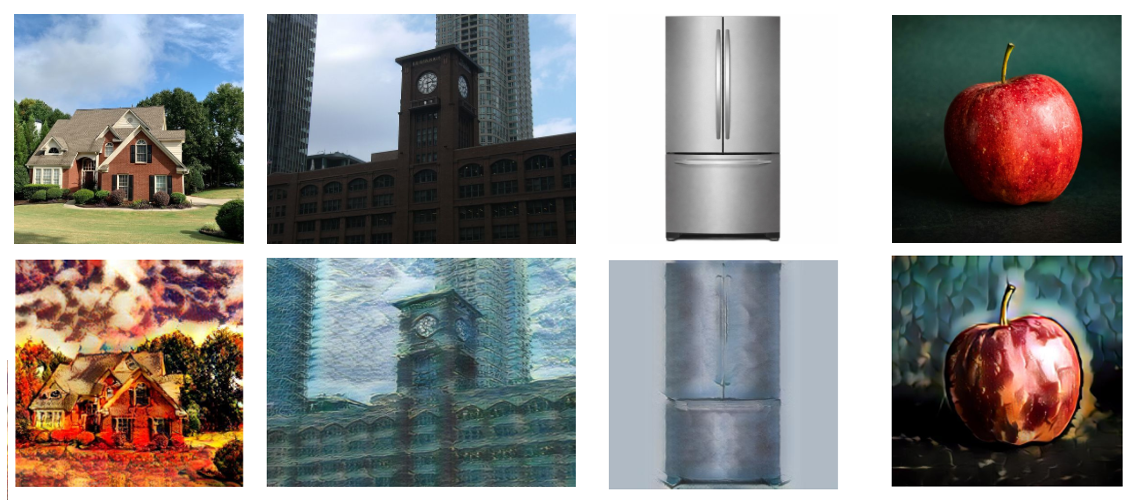
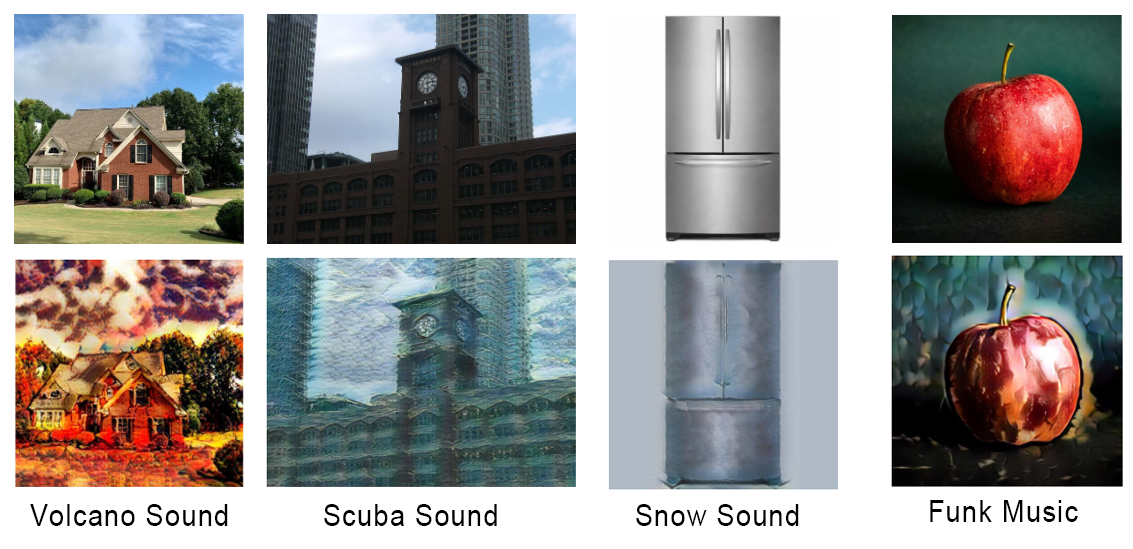
Fixed the Readme

diff --git a/README.md b/README.md
@@ -8,21 +8,6 @@ The top row shows the original images and the bottom row shows the corresponding
 
 ![Example results](examples/ExampleResultsCropped.png)
 
-<table>
-  <tr>
-    <th>volcano.wav</th>
-    <th>scuba.wav</th>
-    <th>snow.mp3</th>
-    <th>BillyJean.wav</th>
-  </tr>
-  <tr>
-    <td><audio controls src="examples/volcano.wav">volcano.wav</audio></td>
-    <td><audio controls src="examples/scuba.wav">scuba.wav</audio></td>
-    <td><audio controls src="examples/snow.mp3">snow.mp3</audio></td>
-    <td><audio controls src="examples/BillyJean.wav">BillyJean.wav</audio></td>
-  </tr>
-</table>
-
 ## Pipeline
 
 ![Audio-driven image stylization pipeline](examples/Pipeline.png)
@@ -35,3 +20,19 @@ An input image is encoded with the VGG. In parallel, ImageBind extracts an embed
 - **Audio:** A split of the [FSD50K dataset](https://zenodo.org/records/4060432) was used to obtain 10,000 audio clips.
 
 The images and audio clips are paired to train the audio-to-style mapping network.
+
+## Setup
+
+Clone the repository together with its submodules, create a Python environment, and install the ImageBind dependencies:
+
+```bash
+git clone --recurse-submodules <repository-url>
+cd Audio-driven-Image-Stylization
+python -m venv .venv
+source .venv/bin/activate          # Windows: .venv\Scripts\activate
+python -m pip install --upgrade pip
+python -m pip install -r ImageBind/requirements.txt
+python -m pip install -e ImageBind
+```
+
+The project expects the pretrained AdaIN and mapper checkpoints in the paths configured by `inference.py` before inference can be run. The main scripts are `dataset_creation.py`, `train_mapper.py`, and `inference.py`.
